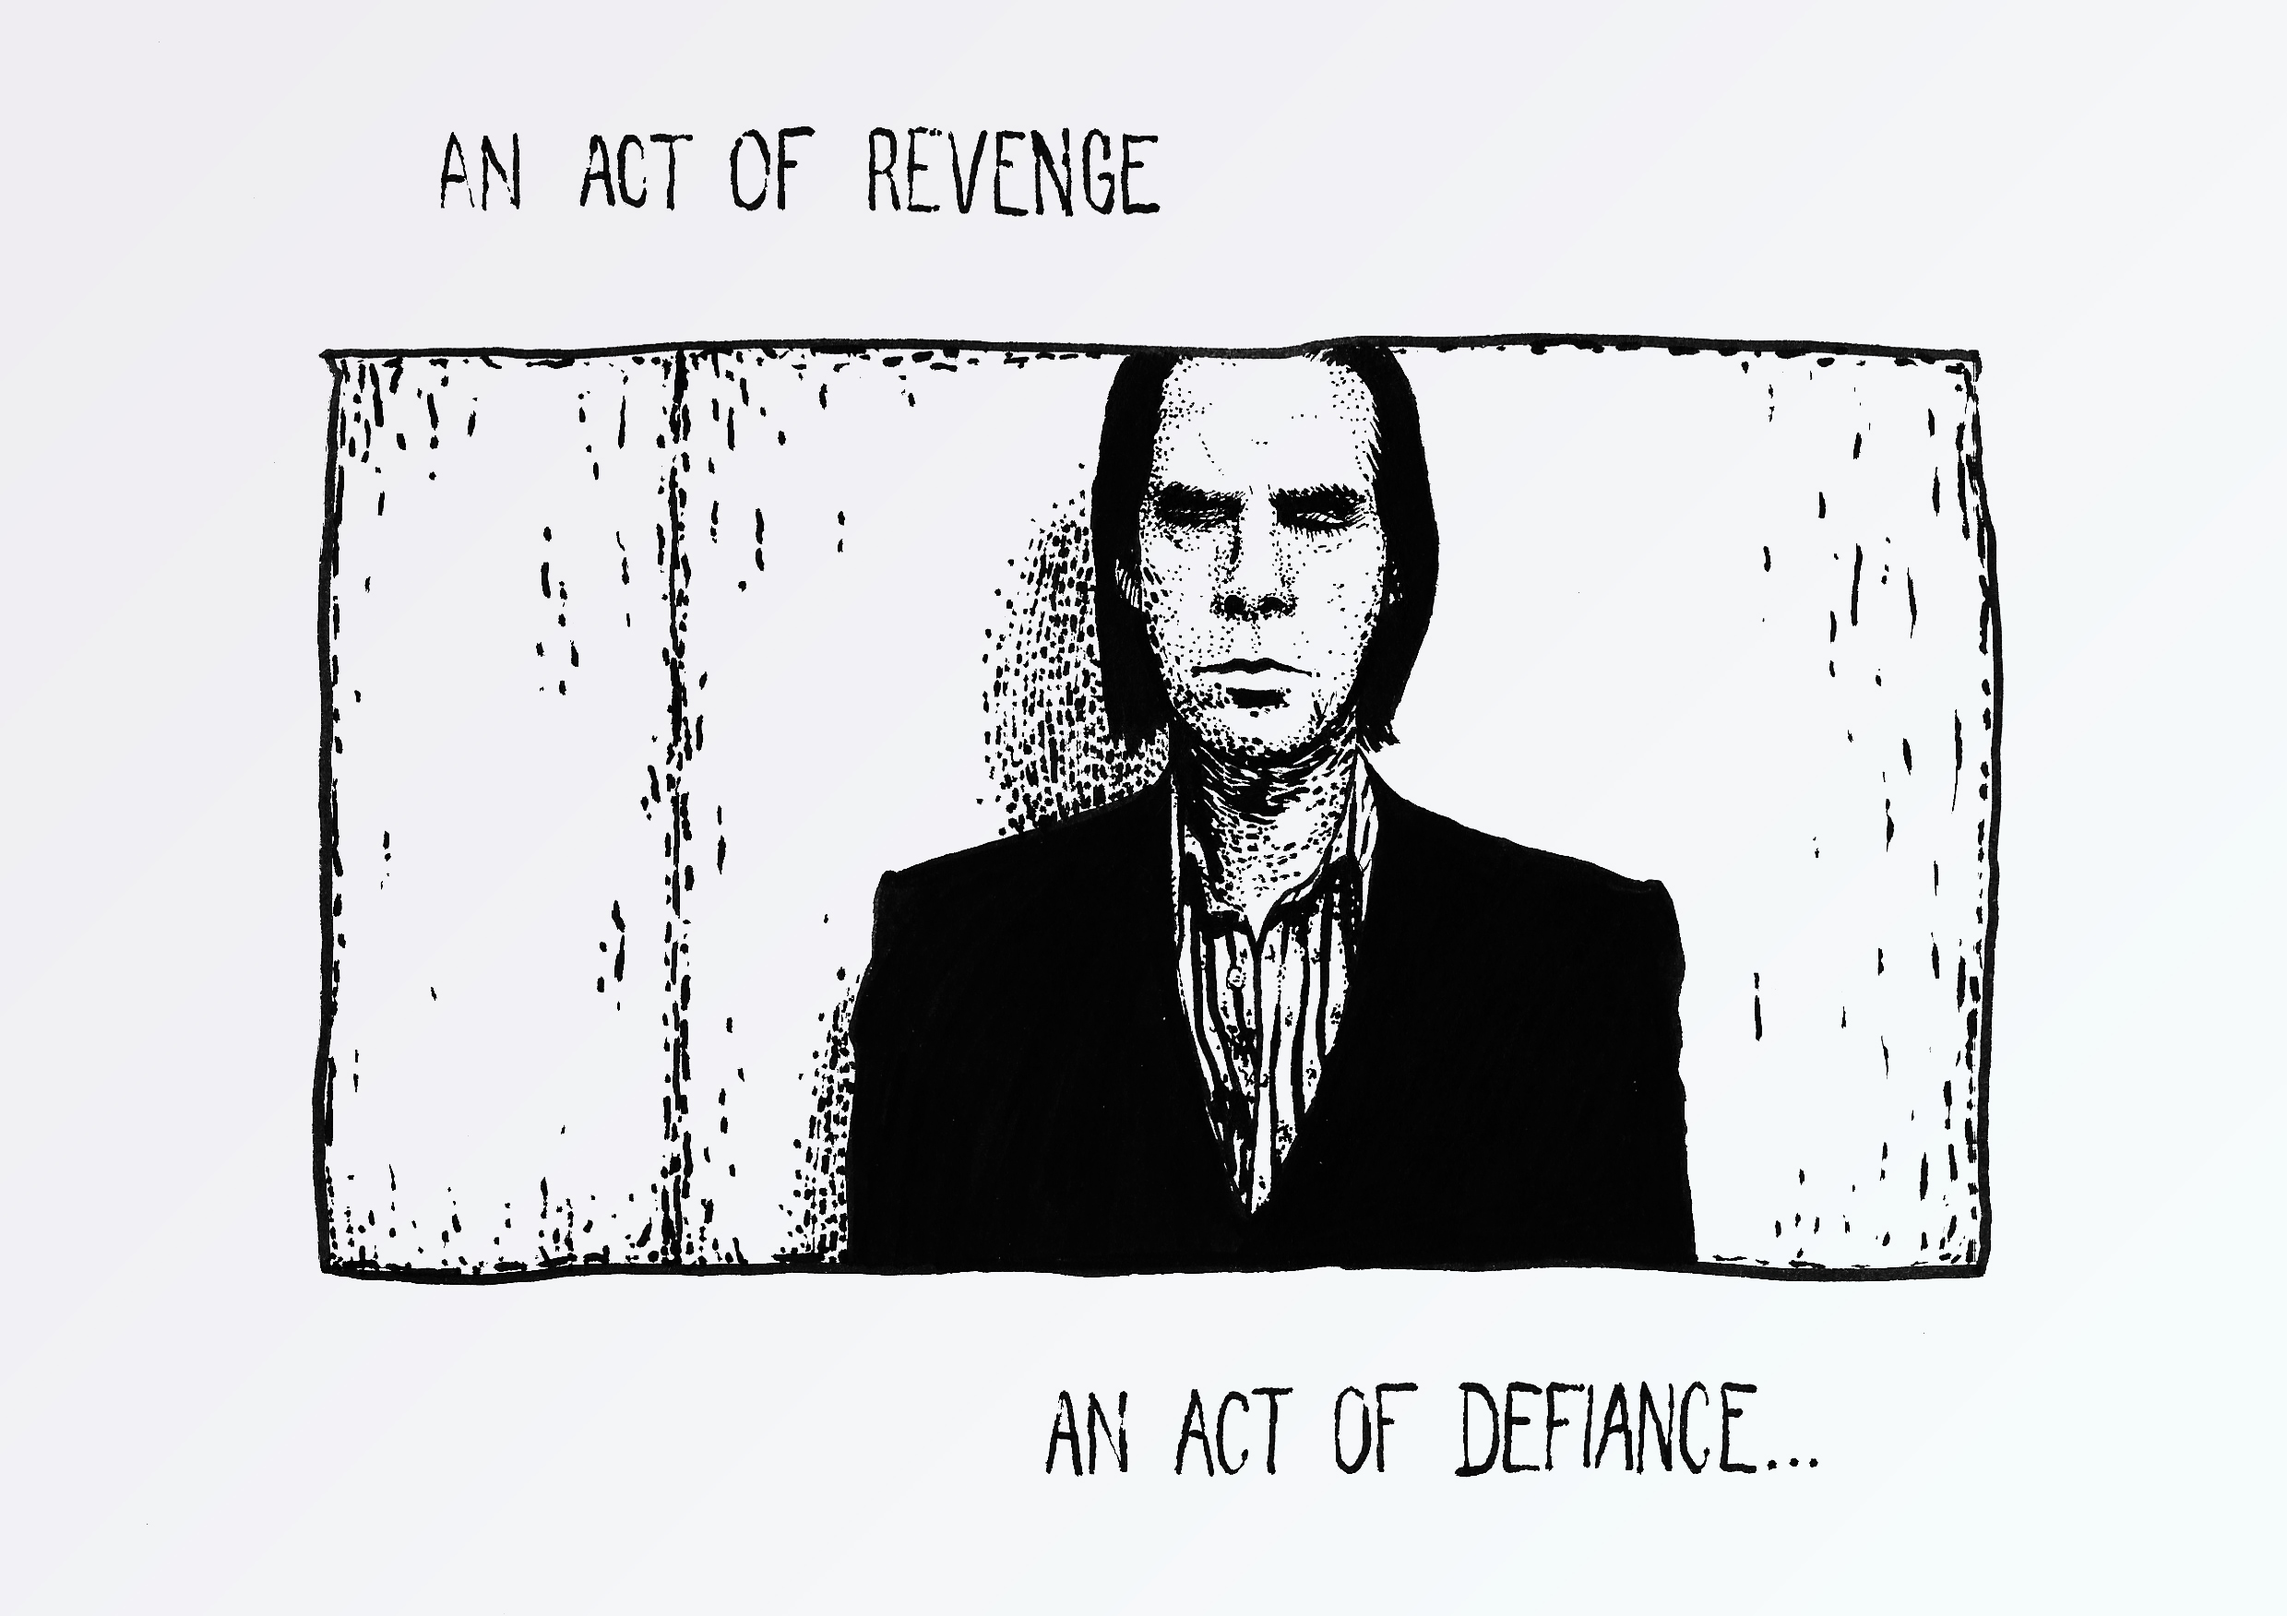
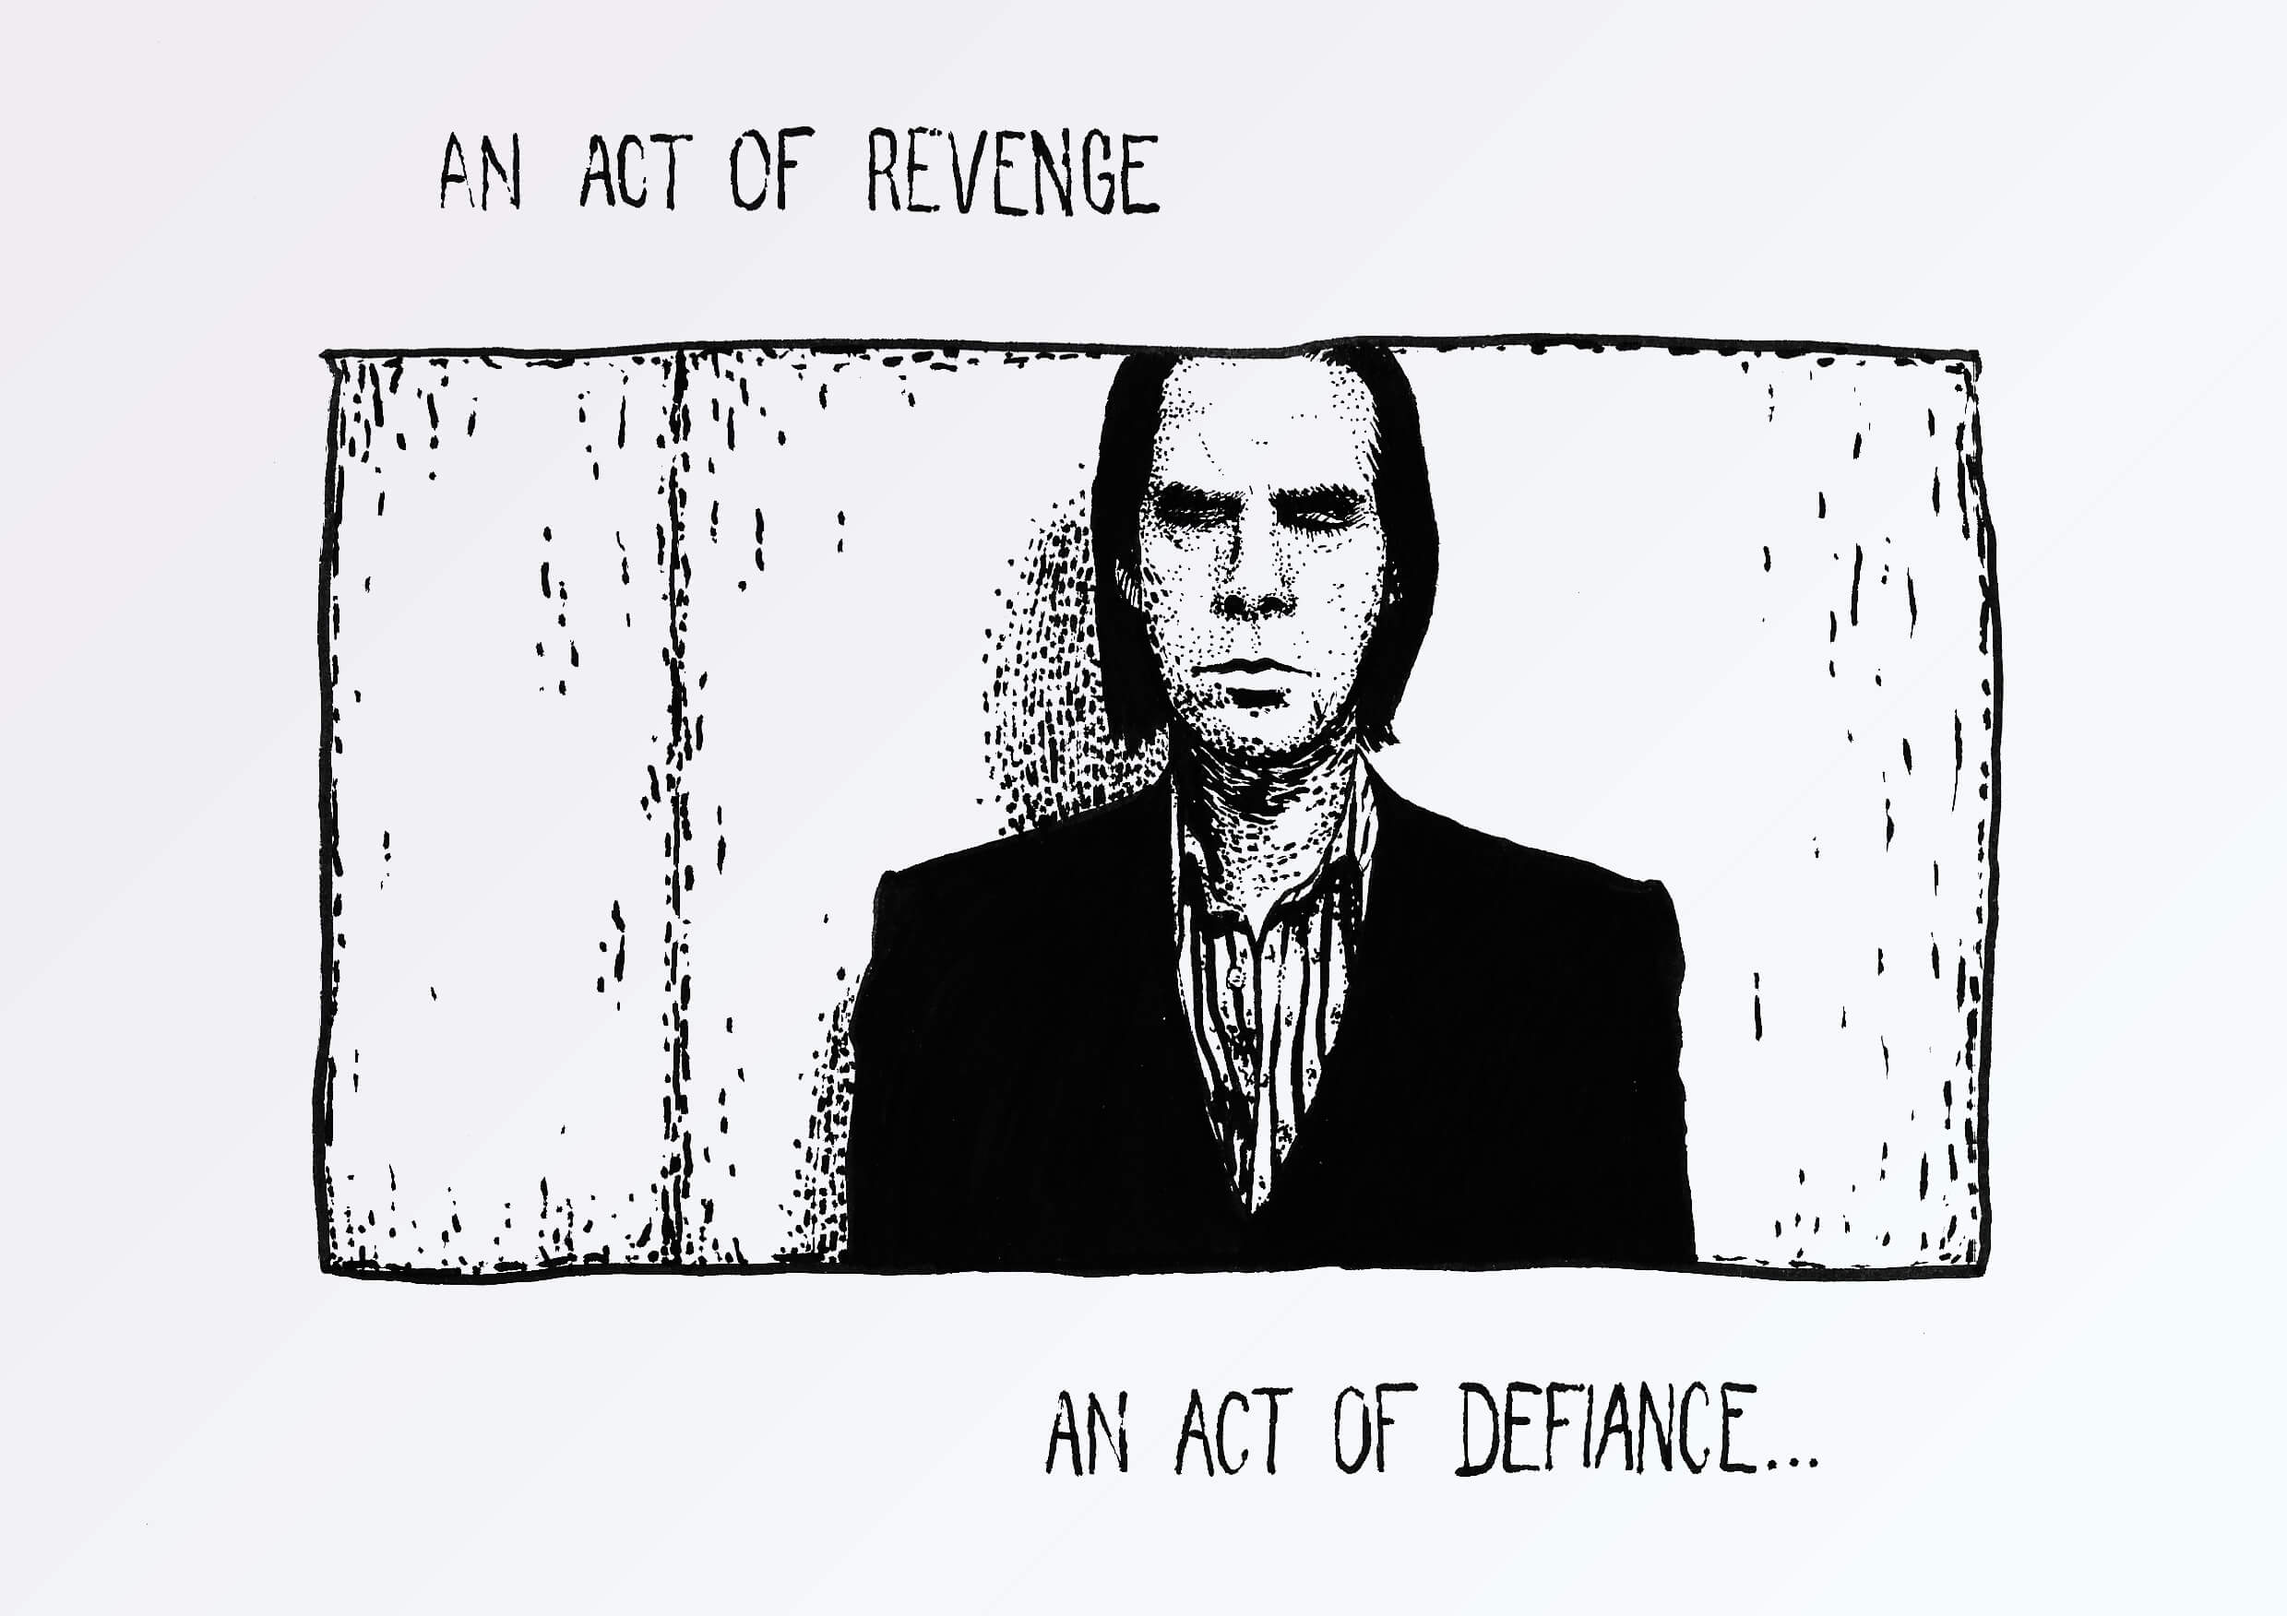
optimize images

diff --git a/index.html b/index.html
@@ -121,14 +121,14 @@
                   </div>
                 </div>
               </div><a href="#modal-toile-de-jouy" class="grid-item">
-                <div><img src="assets/images/work/toile-de-jouy.png" alt="Toile de Jouy"></div>
+                <div><img src="assets/images/work/toile-de-jouy.jpg" alt="Toile de Jouy"></div>
                 <div class="gotcha"></div></a>
               <div id="modal-toile-de-jouy" class="modal">
                 <div class="modal-content">
                   <h2>Toile de Jouy</h2>
                   <div class="close">Close</div>
                   <div class="source">
-                    <div><img src="assets/images/work/toile-de-jouy.png"></div>
+                    <div><img src="assets/images/work/toile-de-jouy.jpg"></div>
                     <div class="gotcha"></div>
                   </div>
                 </div>
